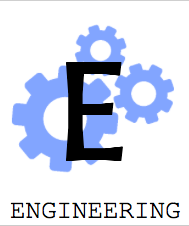
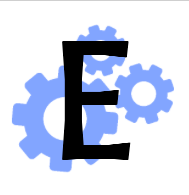
Pics

diff --git a/_includes/header.html b/_includes/header.html
@@ -12,19 +12,19 @@
       
       <div class="gallery dropdown">
         <a href="/stem/science">
-          <img src="/images/stem/Sci1.png" alt="S" width="40" height="40">
+          <img src="/images/stem/Sci.png" alt="S" width="40" height="40">
         </a>
         <div class="dropdown-content">
-          <a href="/stem/science">Introduction</a>
+          <a href="/stem/science">Science</a>
         </div>          
       </div>
         
       <div class="gallery dropdown">
         <a href="/stem/technology">
-          <img src="/images/stem/Tech1.png" alt="T" width="40" height="40">
+          <img src="/images/stem/Tech.png" alt="T" width="40" height="40">
         </a>
         <div class="dropdown-content">
-          <a href="/stem/technology">Introduction</a>
+          <a href="/stem/technology">Technology</a>
           <a href="/technology/logic">Logic Puzzles</a>
           <a href="/technology/blockprogram">Block Programming</a>
         </div>
@@ -32,10 +32,10 @@
       
       <div class="gallery dropdown">
         <a href="/stem/engineering">
-          <img src="/images/stem/Engg1.png" alt="E" width="40" height="40">
+          <img src="/images/stem/Engg.png" alt="E" width="40" height="40">
         </a>
         <div class="dropdown-content">
-          <a href="/stem/engineering">Introduction</a>
+          <a href="/stem/engineering">Engineering</a>
           <a href="/engineering/electronics">Electronics</a>
           <a href="/engineering/robotics">Robotics</a>
           <a href="/engineering/robocompetitions">Robotics Competitions</a>
@@ -44,10 +44,10 @@
       
       <div class="gallery dropdown">
         <a href="/stem/mathematics">
-          <img src="/images/stem/Math1.png" alt="M" width="40" height="40">
+          <img src="/images/stem/Math.png" alt="M" width="40" height="40">
         </a>
         <div class="dropdown-content"> 
-          <a href="/stem/mathematics">Introduction</a>    
+          <a href="/stem/mathematics">Mathematics</a>    
         </div>
       </div>
       
